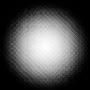
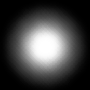
shader cc

diff --git a/RTSJam/RTSJam/MainGame.cs b/RTSJam/RTSJam/MainGame.cs
@@ -168,8 +168,9 @@ namespace RTSJam
             Master.unitTextures[6] = Content.Load<Texture2D>("units\\transport0");
             Master.unitTextures[7] = Content.Load<Texture2D>("units\\transport1");
 
-            Master.fxTextures[0] = Content.Load<Texture2D>("fx\\light1");
-            Master.fxTextures[1] = Content.Load<Texture2D>("fx\\drive0");
+            Master.fxTextures[0] = Content.Load<Texture2D>("fx\\light0");
+            Master.fxTextures[1] = Content.Load<Texture2D>("fx\\light1");
+            Master.fxTextures[2] = Content.Load<Texture2D>("fx\\drive0");
 
             Master.lightEffect = Content.Load<Effect>("fx\\lightShader");
 
@@ -490,7 +491,7 @@ namespace RTSJam
             {
                 if (!Master.buildings[i].hostile)
                 {
-                    spriteBatch.Draw(Master.fxTextures[0], Master.buildings[i].position, null, Color.White, 0f, new Vector2(45f), Master.scaler * 8f, SpriteEffects.None, 0f);
+                    spriteBatch.Draw(Master.fxTextures[1], Master.buildings[i].position, null, Color.White, 0f, new Vector2(45f), Master.scaler * 8f, SpriteEffects.None, 0f);
                 }
             }
             spriteBatch.End();

diff --git a/RTSJam/RTSJam/Master.cs b/RTSJam/RTSJam/Master.cs
@@ -26,7 +26,7 @@ namespace RTSJam
         public static Texture2D[] unitTextures = new Texture2D[8];
         public static Texture2D[] ressourceTextures = new Texture2D[11];
         public static Texture2D[] buildingTextures = new Texture2D[14];
-        public static Texture2D[] fxTextures = new Texture2D[2];
+        public static Texture2D[] fxTextures = new Texture2D[3];
         public static Effect lightEffect;
 
         public static Texture2D pixel;
